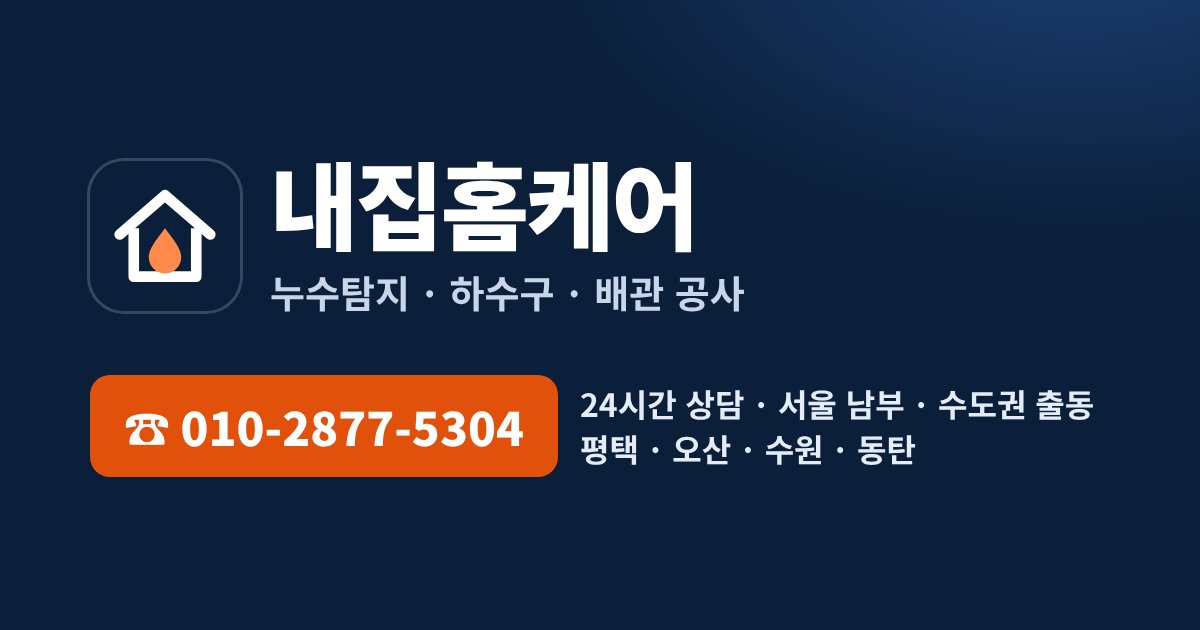
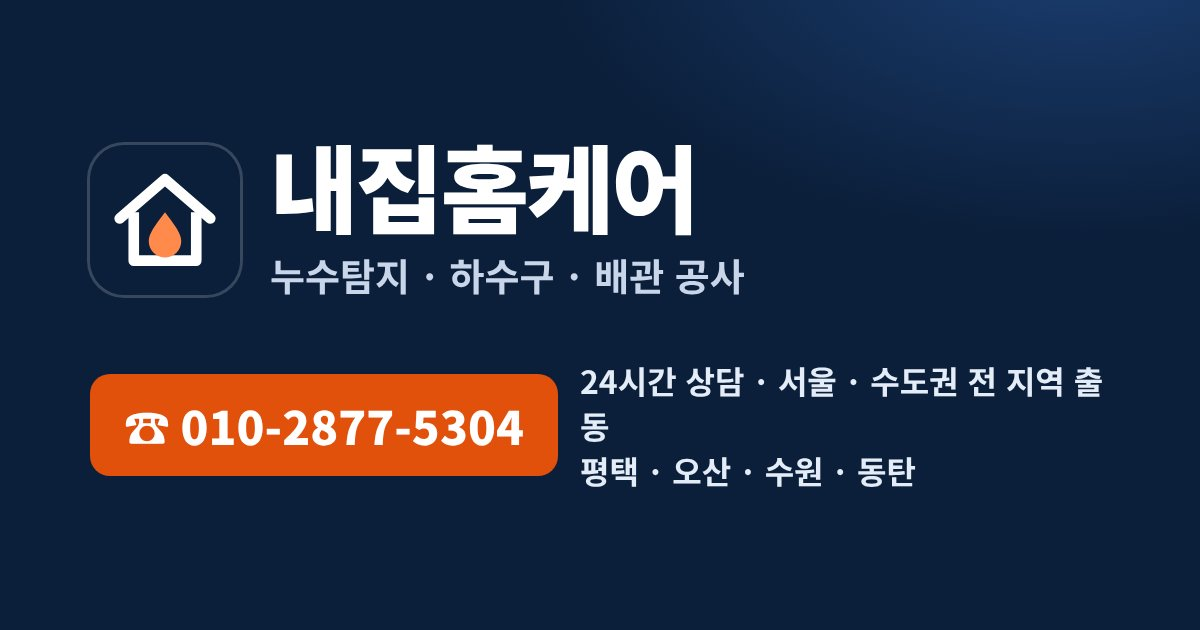
Service area: 평택 중심, 서울·수도권 전 지역
Claude-Session: https://claude.ai/code/session_01N8uAJLLb8gg5xDAX5vzk9i

diff --git a/build.py b/build.py
@@ -374,7 +374,7 @@ def home():
   <div class="wrap area">
     <div>
       <p class="eyebrow">출동 지역</p>
-      <h2 class="h2">{esc(B['region'])}<br>어디든 갑니다</h2>
+      <h2 class="h2">평택을 중심으로<br>{esc(B['region'])} 출동</h2>
       <p class="lead">{esc(' · '.join(B['areas']))}을 중심으로 출동합니다.</p>
       <ul class="chips">{area_html}</ul>
     </div>

diff --git a/content/cases/2026-11-03-cheonan-buldang-villa-hotwater-leak.md b/content/cases/2026-11-03-cheonan-buldang-villa-hotwater-leak.md
@@ -46,4 +46,4 @@ video: /cases/2026-11-03-cheonan-hotwater-leak/leak-test-pressure-drop.mp4
 - 원인을 모른 채 시간이 지나면 아랫집 피해가 커집니다. 탐지는 빠를수록 좋습니다.
 - 누수로 아랫집에 피해가 생겼다면, 가입한 보험에 일상생활배상책임 특약이 있는지 확인해 보세요.
 
-평택을 중심으로 오산 · 수원 · 동탄 등 서울 남부·수도권까지 출동합니다. 아랫집 천장 누수로 고민 중이시라면 전화 주세요. 압력 테스트로 원인 배관부터 정확히 찾아드립니다.
+평택을 중심으로 오산 · 수원 · 동탄 등 서울·수도권 전 지역까지 출동합니다. 아랫집 천장 누수로 고민 중이시라면 전화 주세요. 압력 테스트로 원인 배관부터 정확히 찾아드립니다.

diff --git a/content/cases/2026-11-godeok-villa-heating-leak.md b/content/cases/2026-11-godeok-villa-heating-leak.md
@@ -51,4 +51,4 @@ video: /cases/2026-11-godeok-heating-leak/leak-water-video.mp4
 - 위층 보일러에 물 보충 알림이 자주 뜬다면 난방 배관 누수일 가능성이 높습니다.
 - 아랫집 피해가 생겼다면 가입한 보험에 일상생활배상책임 특약이 있는지 확인해 보세요.
 
-평택 고덕신도시를 비롯해 평택 전 지역과 오산 · 수원 · 동탄 등 서울 남부·수도권까지 출동합니다. 물이 떨어지는 곳이 아니라 실제로 새는 곳을 찾아 고쳐드립니다.
+평택 고덕신도시를 비롯해 평택 전 지역과 오산 · 수원 · 동탄 등 서울·수도권 전 지역까지 출동합니다. 물이 떨어지는 곳이 아니라 실제로 새는 곳을 찾아 고쳐드립니다.

diff --git a/content/cases/2026-11-yeoksam-stairs-drain-locating.md b/content/cases/2026-11-yeoksam-stairs-drain-locating.md
@@ -35,4 +35,4 @@ video: /cases/2026-11-yeoksam-pipe-locating/pipe-locator-video.mp4
 - 하수구 냄새가 함께 난다면 배관 손상이나 막힘일 가능성이 높습니다.
 - 도면이 없는 건물이라면 관로탐지로 배관 경로부터 확인하는 것이 공사 범위와 비용을 줄이는 방법입니다.
 
-평택을 중심으로 오산 · 수원 · 동탄 등 서울 남부·수도권까지 다녀옵니다. 배관이 어디로 지나가는지 모를 때, 관로탐지로 정확하게 찾아드립니다.
+평택을 중심으로 오산 · 수원 · 동탄 등 서울·수도권 전 지역까지 다녀옵니다. 배관이 어디로 지나가는지 모를 때, 관로탐지로 정확하게 찾아드립니다.

diff --git a/content/cases/2026-11-songtan-villa-floor-heating-leak.md b/content/cases/2026-11-songtan-villa-floor-heating-leak.md
@@ -79,4 +79,4 @@ images:
 - 보일러 물 보충 알림이 자주 뜨는 것도 같은 신호일 수 있습니다.
 - 오래 둘수록 바닥 곰팡이가 번지고, 아래층까지 피해가 갈 수 있습니다.
 
-평택 송탄을 비롯해 평택 전 지역과 오산 · 수원 · 동탄 등 서울 남부·수도권까지 출동합니다. 바닥 누수, 정확한 지점부터 찾아 필요한 만큼만 고치고 바닥 복구까지 마무리해 드립니다.
+평택 송탄을 비롯해 평택 전 지역과 오산 · 수원 · 동탄 등 서울·수도권 전 지역까지 출동합니다. 바닥 누수, 정확한 지점부터 찾아 필요한 만큼만 고치고 바닥 복구까지 마무리해 드립니다.

diff --git a/content/cases/2026-11-yeoksam-villa-bathroom-dye-test.md b/content/cases/2026-11-yeoksam-villa-bathroom-dye-test.md
@@ -50,4 +50,4 @@ images:
 - 위층에서 샤워나 청소 후 한참 뒤까지 젖어 있다면 방수층 문제일 수 있습니다.
 - 어느 쪽인지 모를 때는 공사부터 하지 말고 테스트로 원인을 먼저 확인하세요.
 
-평택을 중심으로 오산 · 수원 · 동탄 등 서울 남부·수도권까지 다녀옵니다. 욕실 누수, 공사 전에 원인부터 정확히 가려 드립니다.
+평택을 중심으로 오산 · 수원 · 동탄 등 서울·수도권 전 지역까지 다녀옵니다. 욕실 누수, 공사 전에 원인부터 정확히 가려 드립니다.

diff --git a/content/cases/2026-10-godeok-villa-heating-thermal-check.md b/content/cases/2026-10-godeok-villa-heating-thermal-check.md
@@ -51,4 +51,4 @@ images:
 - 난방비가 예년보다 많이 나올 때
 - 오래된 집에 이사하기 전, 또는 겨울을 앞두고 미리 확인하고 싶을 때
 
-평택 고덕신도시를 비롯해 평택 전 지역과 오산 · 수원 · 동탄 등 서울 남부·수도권까지 출동합니다. 바닥을 뜯기 전에, 열화상으로 먼저 확인해 드립니다.
+평택 고덕신도시를 비롯해 평택 전 지역과 오산 · 수원 · 동탄 등 서울·수도권 전 지역까지 출동합니다. 바닥을 뜯기 전에, 열화상으로 먼저 확인해 드립니다.

diff --git a/content/cases/2026-11-suwon-homaesil-laundry-downpipe.md b/content/cases/2026-11-suwon-homaesil-laundry-downpipe.md
@@ -64,4 +64,4 @@ images:
 - 우수관이 바닥으로 들어가는 자리의 타일이 들뜨거나 깨져 있을 때
 - 세탁실 구석 벽 아래에 물 얼룩이나 곰팡이가 생길 때
 
-평택을 중심으로 오산 · 수원 · 동탄 등 서울 남부·수도권까지 출동합니다. 세탁실 천장 누수, 새는 길을 찾아 확실히 막아 드립니다.
+평택을 중심으로 오산 · 수원 · 동탄 등 서울·수도권 전 지역까지 출동합니다. 세탁실 천장 누수, 새는 길을 찾아 확실히 막아 드립니다.

diff --git a/content/cases/2026-11-paengseong-bathroom-drain-grout.md b/content/cases/2026-11-paengseong-bathroom-drain-grout.md
@@ -102,4 +102,4 @@ images:
 - 유가 둘레 타일이 들뜨거나 마감이 부서져 있을 때
 - 샤워를 한 뒤 아래층 천장에 얼룩이 생길 때
 
-평택 팽성을 비롯해 평택 전 지역과 오산 · 수원 · 동탄 등 서울 남부·수도권까지 출동합니다. 욕실 누수, 새는 틈부터 꼼꼼히 막아 드립니다.
+평택 팽성을 비롯해 평택 전 지역과 오산 · 수원 · 동탄 등 서울·수도권 전 지역까지 출동합니다. 욕실 누수, 새는 틈부터 꼼꼼히 막아 드립니다.

diff --git a/content/cases/2026-11-pyeongtaek-bathroom-floor-drain.md b/content/cases/2026-11-pyeongtaek-bathroom-floor-drain.md
@@ -50,4 +50,4 @@ images:
 - 유가 주변 타일 줄눈이 까맣게 변하거나 갈라져 있을 때
 - 유가 덮개 주변 바닥이 들뜨거나 흔들릴 때
 
-평택을 중심으로 오산 · 수원 · 동탄 등 서울 남부·수도권까지 출동합니다. 욕실 누수, 필요한 곳만 정확히 고쳐드립니다.
+평택을 중심으로 오산 · 수원 · 동탄 등 서울·수도권 전 지역까지 출동합니다. 욕실 누수, 필요한 곳만 정확히 고쳐드립니다.

diff --git a/content/cases/2026-11-yongin-bathroom-floor-drain.md b/content/cases/2026-11-yongin-bathroom-floor-drain.md
@@ -54,4 +54,4 @@ images:
 - 유가 둘레 타일이나 줄눈이 들뜨거나 부서져 있을 때
 - 유가 주변 줄눈이 유독 까맣게 변해 있을 때
 
-평택을 중심으로 오산 · 수원 · 동탄 등 서울 남부·수도권까지 출동합니다. 욕실 누수, 새는 자리를 정확히 막아 드립니다.
+평택을 중심으로 오산 · 수원 · 동탄 등 서울·수도권 전 지역까지 출동합니다. 욕실 누수, 새는 자리를 정확히 막아 드립니다.
